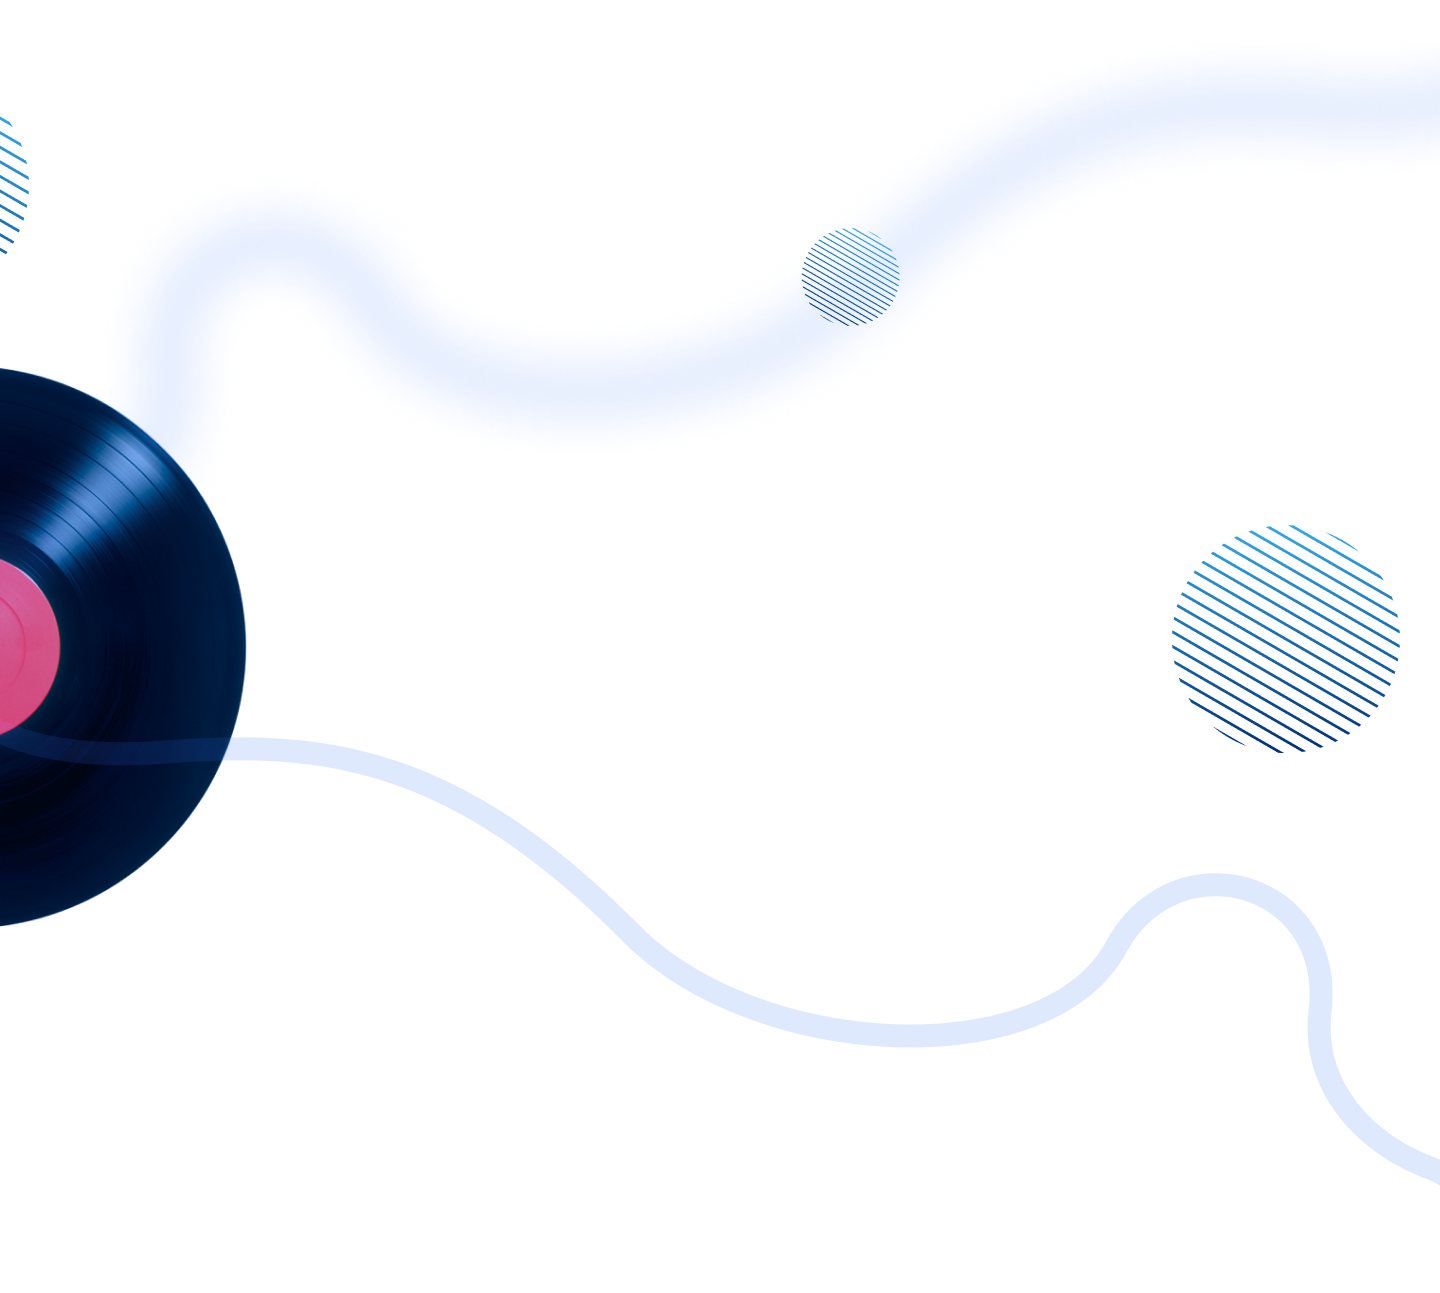
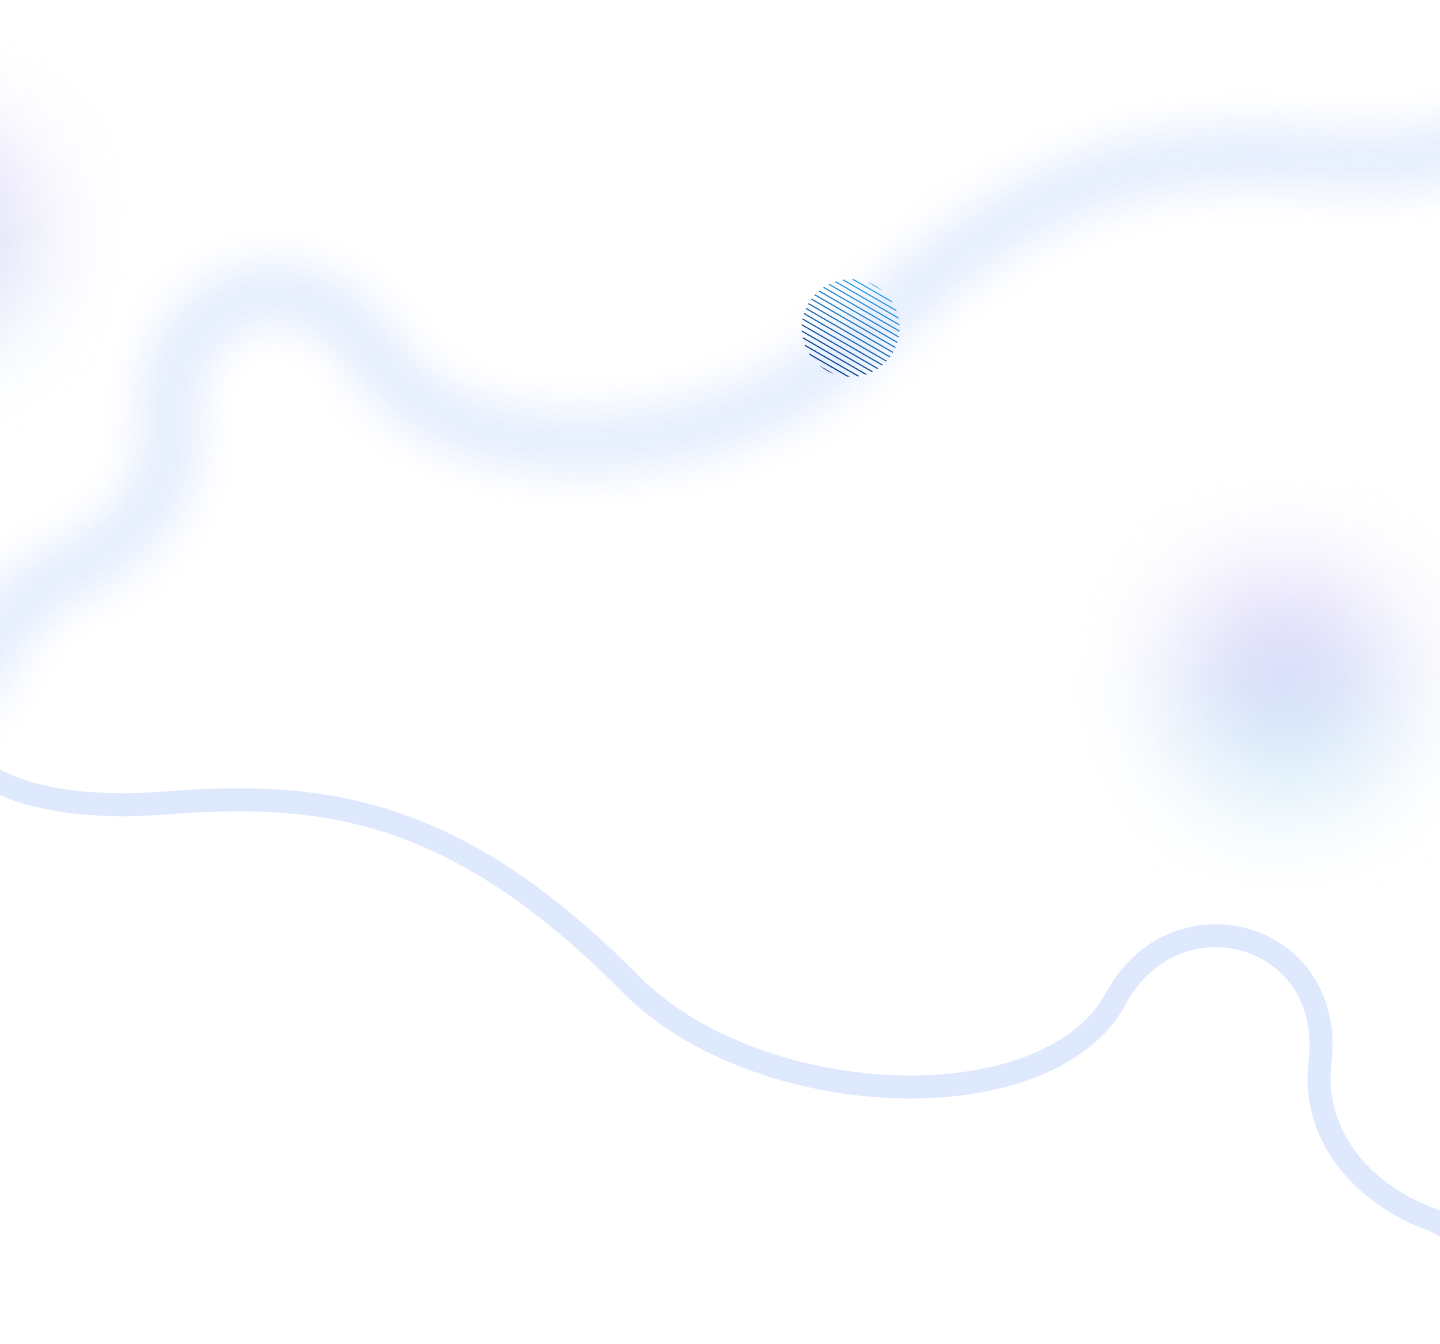
Resolved build issue

diff --git a/src/app/page.tsx b/src/app/page.tsx
@@ -14,13 +14,13 @@ export default function Home() {
     <div>
       <Header />
       <Hero />
-      <div className="bg-hero2 bg-no-repeat bg-cover ">
+      <div className="bg-hero bg-no-repeat bg-cover ">
         <Podcast />
         <Discography />
       </div>
       <Collection />
       <Tour />
-      <div className="bg-hero2 bg-no-repeat bg-cover ">
+      <div className="bg-hero bg-no-repeat bg-cover ">
         <Subscribe />
         <Store />
       </div>

diff --git a/src/assets/images/index.tsx b/src/assets/images/index.tsx
@@ -1,5 +1,4 @@
 import HeroBackground from "./hero_background_image.png";
-import HeroBackground2 from "./hero_background_image_2.png";
 import ArtistHeroImg from "./artist_hero_img.png";
 import RecordingInstruments from "./recording_instruments.png";
 import PodcastMic from "./podcast.png";
@@ -17,7 +16,6 @@ import StoreImg2 from "./store_img2.png";
 
 export {
   HeroBackground,
-  HeroBackground2,
   ArtistHeroImg,
   RecordingInstruments,
   PodcastMic,

diff --git a/src/components/Landing/Tour/index.tsx b/src/components/Landing/Tour/index.tsx
@@ -6,7 +6,7 @@ import React from "react";
 
 const Tour = () => {
   return (
-    <div className="bg-hero2 flex flex-col items-center gap-10 py-24 px-5">
+    <div className="bg-hero flex flex-col items-center gap-10 py-24 px-5">
       <h3 className="font-semibold text-4xl">
         Tour
         <span className="text-transparent bg-gradient-to-b from-gr-color-2 from-30% to-gr-color-1 bg-clip-text">

diff --git a/src/components/Landing/Collection/index.tsx b/src/components/Landing/Collection/index.tsx
@@ -12,7 +12,7 @@ import React from "react";
 
 const Collection = () => {
   return (
-    <div className="bg-hero2 bg-no-repeat bg-cover relative">
+    <div className="bg-hero bg-no-repeat bg-cover relative">
       <Image
         src={MusicDisk}
         alt="music disk"

diff --git a/tailwind.config.js b/tailwind.config.js
@@ -63,7 +63,6 @@ module.exports = {
       },
       backgroundImage: {
         hero: "url(../assets/images/hero_background_image.png)",
-        hero2: "url(../assets/images/hero_background_image_2.png)",
       },
       keyframes: {
         "accordion-down": {

diff --git a/src/components/Landing/Hero/index.tsx b/src/components/Landing/Hero/index.tsx
@@ -18,7 +18,7 @@ import React from "react";
 
 const Hero = () => {
   return (
-    <div className="bg-hero2 bg-no-repeat bg-cover ">
+    <div className="bg-hero bg-no-repeat bg-cover ">
       <Image
         src={MusicDisk2}
         alt="music disk"
